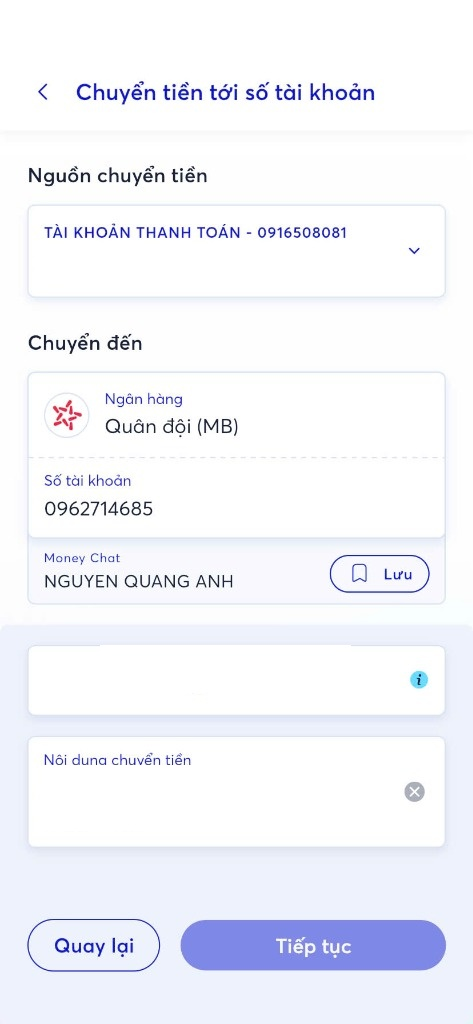
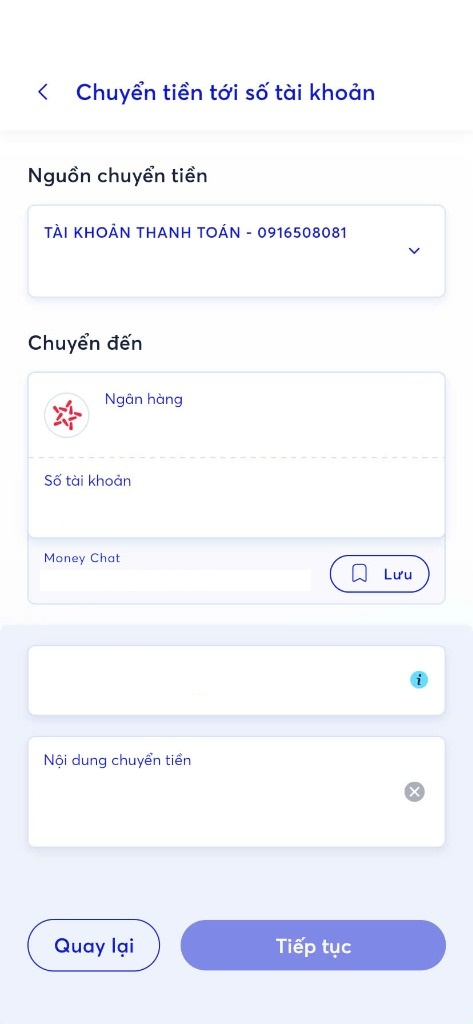
fix: eliminate double text overlap, remove chip obstruction, and fix memo input alignment on transfer screen

diff --git a/css/phone-transfer.css b/css/phone-transfer.css
@@ -112,9 +112,9 @@
 /* Recipient Info Overlays */
 .photo-transfer-rec-bank {
   position: absolute;
-  top: 39.5%;
-  left: 22%;
-  font-size: 15px;
+  top: 40.6%;
+  left: 22.2%;
+  font-size: 14px;
   font-weight: 700;
   color: #0f172a;
   font-family: var(--font-family-mb) !important;
@@ -124,12 +124,12 @@
 
 .photo-transfer-rec-stk {
   position: absolute;
-  top: 47.4%;
+  top: 48.8%;
   left: 9.3%;
-  font-size: 19px;
+  font-size: 18px;
   font-weight: 700;
   color: #0f172a;
-  letter-spacing: 0.2px;
+  letter-spacing: 0.3px;
   font-family: var(--font-family-mb) !important;
   pointer-events: none;
   z-index: 20;
@@ -137,9 +137,9 @@
 
 .photo-transfer-rec-owner {
   position: absolute;
-  top: 54.7%;
+  top: 55.8%;
   left: 9.3%;
-  font-size: 14.5px;
+  font-size: 14px;
   font-weight: 700;
   color: #0f172a;
   letter-spacing: 0.2px;
@@ -166,12 +166,12 @@
 /* Amount Box Display & Input */
 .photo-transfer-amount-box {
   position: absolute;
-  top: 62.2%;
+  top: 64.0%;
   left: 9.3%;
   width: 81.4%;
-  height: 60px;
+  height: 48px;
   display: flex;
-  align-items: center;
+  align-items: baseline;
   justify-content: center;
   gap: 6px;
   z-index: 25;
@@ -180,18 +180,18 @@
 .photo-transfer-amount-val {
   font-size: 26px;
   font-weight: 800;
-  color: #5046e5;
+  color: #4338ca;
   font-family: var(--font-family-mb) !important;
   letter-spacing: -0.5px;
   outline: none;
   cursor: text;
-  border-bottom: 1.5px dashed rgba(80, 70, 229, 0.3);
+  border-bottom: 1.5px dashed rgba(67, 56, 202, 0.3);
   padding: 0 4px;
 }
 
 .photo-transfer-amount-val:focus {
-  border-bottom: 2px solid #5046e5;
-  background: rgba(80, 70, 229, 0.05);
+  border-bottom: 2px solid #4338ca;
+  background: rgba(67, 56, 202, 0.05);
 }
 
 .photo-transfer-amount-curr {
@@ -201,61 +201,14 @@
   font-family: var(--font-family-mb) !important;
 }
 
-/* Quick Amount Chips */
-.photo-transfer-quick-amounts {
-  position: absolute;
-  top: 68.6%;
-  left: 9.3%;
-  width: 81.4%;
-  display: flex;
-  justify-content: space-between;
-  gap: 4px;
-  z-index: 25;
-}
-
-.photo-transfer-quick-amounts .fake-chip-btn {
-  flex: 1;
-  text-align: center;
-  padding: 3px 0;
-  font-size: 10.5px;
-  font-weight: 700;
-  background: rgba(255, 255, 255, 0.95);
-  border: 1px solid #cbd5e1;
-  border-radius: 6px;
-  color: #334155;
-  cursor: pointer;
-  transition: all 0.15s ease;
-  font-family: var(--font-family-mb);
-}
-
-.photo-transfer-quick-amounts .fake-chip-btn:hover {
-  background: #f1f5f9;
-  border-color: #94a3b8;
-}
-
-.photo-transfer-quick-amounts .fake-chip-btn.active {
-  background: #5046e5;
-  border-color: #5046e5;
-  color: #ffffff;
-}
-
-/* Memo Box: DIRECT MANUAL USER INPUT! */
-.photo-transfer-memo-box {
-  position: absolute;
-  top: 72.8%;
-  left: 9.3%;
-  width: 81.4%;
-  height: 96px;
-  z-index: 25;
-}
-
+/* Memo Input: DIRECT MANUAL USER INPUT! */
 .photo-transfer-memo-input {
   position: absolute;
-  top: 36px;
-  left: 0;
-  width: calc(100% - 46px);
-  min-height: 42px;
-  font-size: 14.5px;
+  top: 76.5%;
+  left: 9.3%;
+  width: 73%;
+  height: 44px;
+  font-size: 15px;
   font-weight: 700;
   color: #0f172a;
   line-height: 1.35;
@@ -263,15 +216,17 @@
   outline: none;
   cursor: text;
   background: transparent;
-  word-break: break-word;
-  white-space: pre-wrap;
+  word-break: break-all;
+  display: flex;
+  align-items: center;
   padding: 2px 4px;
   border-radius: 4px;
   transition: background 0.15s ease;
+  z-index: 25;
 }
 
 .photo-transfer-memo-input:focus {
-  background: rgba(0, 43, 128, 0.04);
+  background: rgba(0, 43, 128, 0.05);
 }
 
 .photo-transfer-memo-input:empty:before {
@@ -283,17 +238,17 @@
 
 .photo-transfer-clear-memo {
   position: absolute;
-  top: 34px;
-  right: 2px;
-  width: 36px;
-  height: 36px;
+  top: 76.2%;
+  right: 9.3%;
+  width: 34px;
+  height: 34px;
   border-radius: 50%;
   cursor: pointer;
   z-index: 30;
 }
 
 .photo-transfer-clear-memo:hover {
-  background: rgba(0, 0, 0, 0.05);
+  background: rgba(0, 0, 0, 0.06);
 }
 
 /* Bottom Action Hotspots */

diff --git a/index.html b/index.html
@@ -1294,11 +1294,11 @@
           <div class="photo-transfer-frame">
             <img src="img/mbbank_transfer_clean.jpg" alt="MBBank Chuyển tiền tới số tài khoản" class="photo-transfer-bg-img" />
 
-            <!-- Live Status Bar Clock Overlay -->
-            <div class="photo-transfer-clock" id="phone-clock">19:27</div>
-
             <!-- Top Left Back Arrow Hotspot -->
             <div class="photo-transfer-back-btn" id="btn-form-back-home" role="button" tabindex="0" title="Quay lại"></div>
+
+            <!-- Hidden clock element for timers -->
+            <span id="phone-clock" style="display: none;">19:27</span>
 
             <!-- Live Source Balance Overlay (TÀI KHOẢN THANH TOÁN) -->
             <div class="photo-transfer-balance" id="phone-user-balance">5,301,454 VND</div>
@@ -1331,27 +1331,15 @@
             <div class="photo-transfer-rec-owner" id="phone-recipient-name">NGUYEN QUANG ANH</div>
             <div class="photo-transfer-chat-save" id="btn-chat-save" role="button" tabindex="0" title="Lưu thông tin thụ hưởng"></div>
 
-            <!-- Amount Card: Display & Editable Hotspot -->
+            <!-- Amount Card: Display & Editable Hotspot (Clean, authentic layout) -->
             <div class="photo-transfer-amount-box" id="phone-amount-box">
               <span class="photo-transfer-amount-val" id="phone-amount-display-num" contenteditable="true" spellcheck="false" title="Nhấp để sửa số tiền">50,000</span>
               <span class="photo-transfer-amount-curr">VND</span>
             </div>
 
-            <!-- Quick Amount Chips directly on screen -->
-            <div class="photo-transfer-quick-amounts">
-              <span class="fake-chip-btn" role="button" tabindex="0" data-amount="20000">20k</span>
-              <span class="fake-chip-btn active" role="button" tabindex="0" data-amount="50000">50k</span>
-              <span class="fake-chip-btn" role="button" tabindex="0" data-amount="100000">100k</span>
-              <span class="fake-chip-btn" role="button" tabindex="0" data-amount="200000">200k</span>
-              <span class="fake-chip-btn" role="button" tabindex="0" data-amount="500000">500k</span>
-              <span class="fake-chip-btn" role="button" tabindex="0" data-amount="1000000">1M</span>
-            </div>
-
             <!-- Memo Card: DIRECT MANUAL USER INPUT! User tự gõ tay nội dung cược -->
-            <div class="photo-transfer-memo-box">
-              <div class="photo-transfer-memo-input" id="phone-memo-input" contenteditable="true" spellcheck="false" placeholder="Nhập nội dung chuyển tiền (VD: Dungdz TC, Dungdz TL, ...)">Dungdz TC</div>
-              <div class="photo-transfer-clear-memo" id="btn-clear-memo" role="button" tabindex="0" title="Xóa nội dung"></div>
-            </div>
+            <div class="photo-transfer-memo-input" id="phone-memo-input" contenteditable="true" spellcheck="false" placeholder="Nhập nội dung cược (VD: Dungdz TC, Dungdz TL, ...)">Dungdz TC</div>
+            <div class="photo-transfer-clear-memo" id="btn-clear-memo" role="button" tabindex="0" title="Xóa nội dung"></div>
 
             <!-- Hidden span for backwards compatibility -->
             <span id="phone-memo-display" style="display: none;">Dungdz TC</span>
